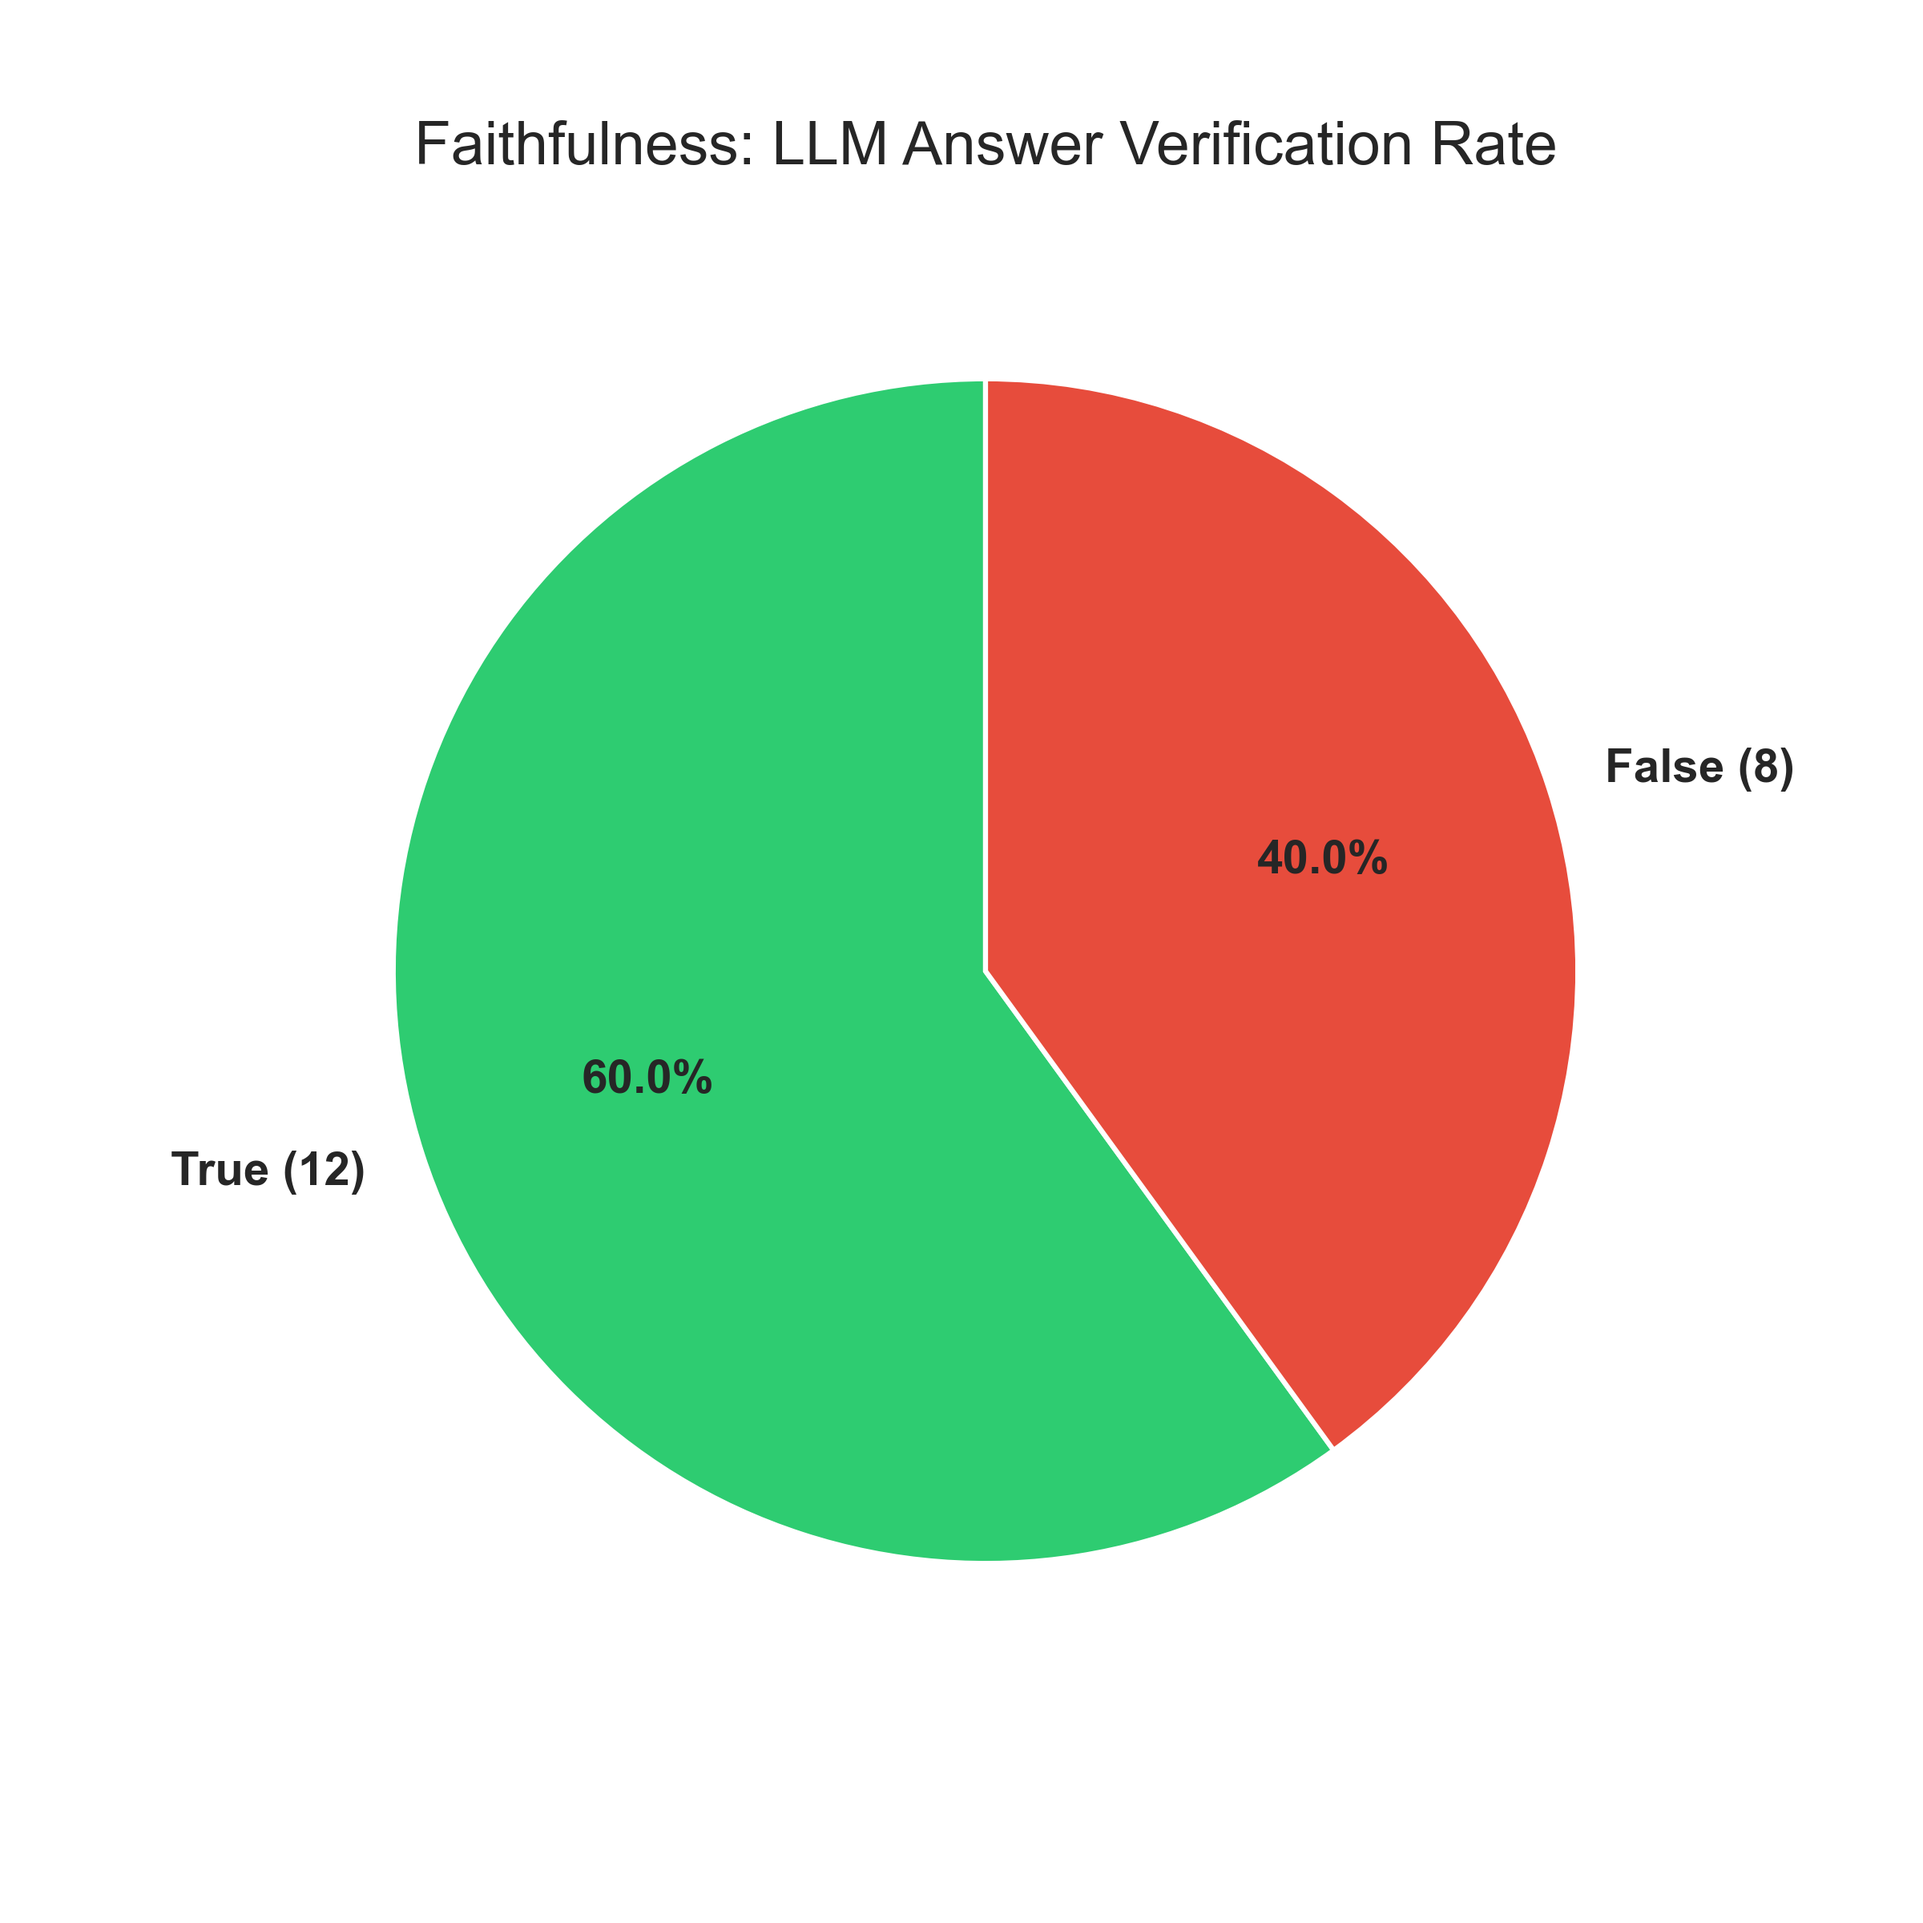
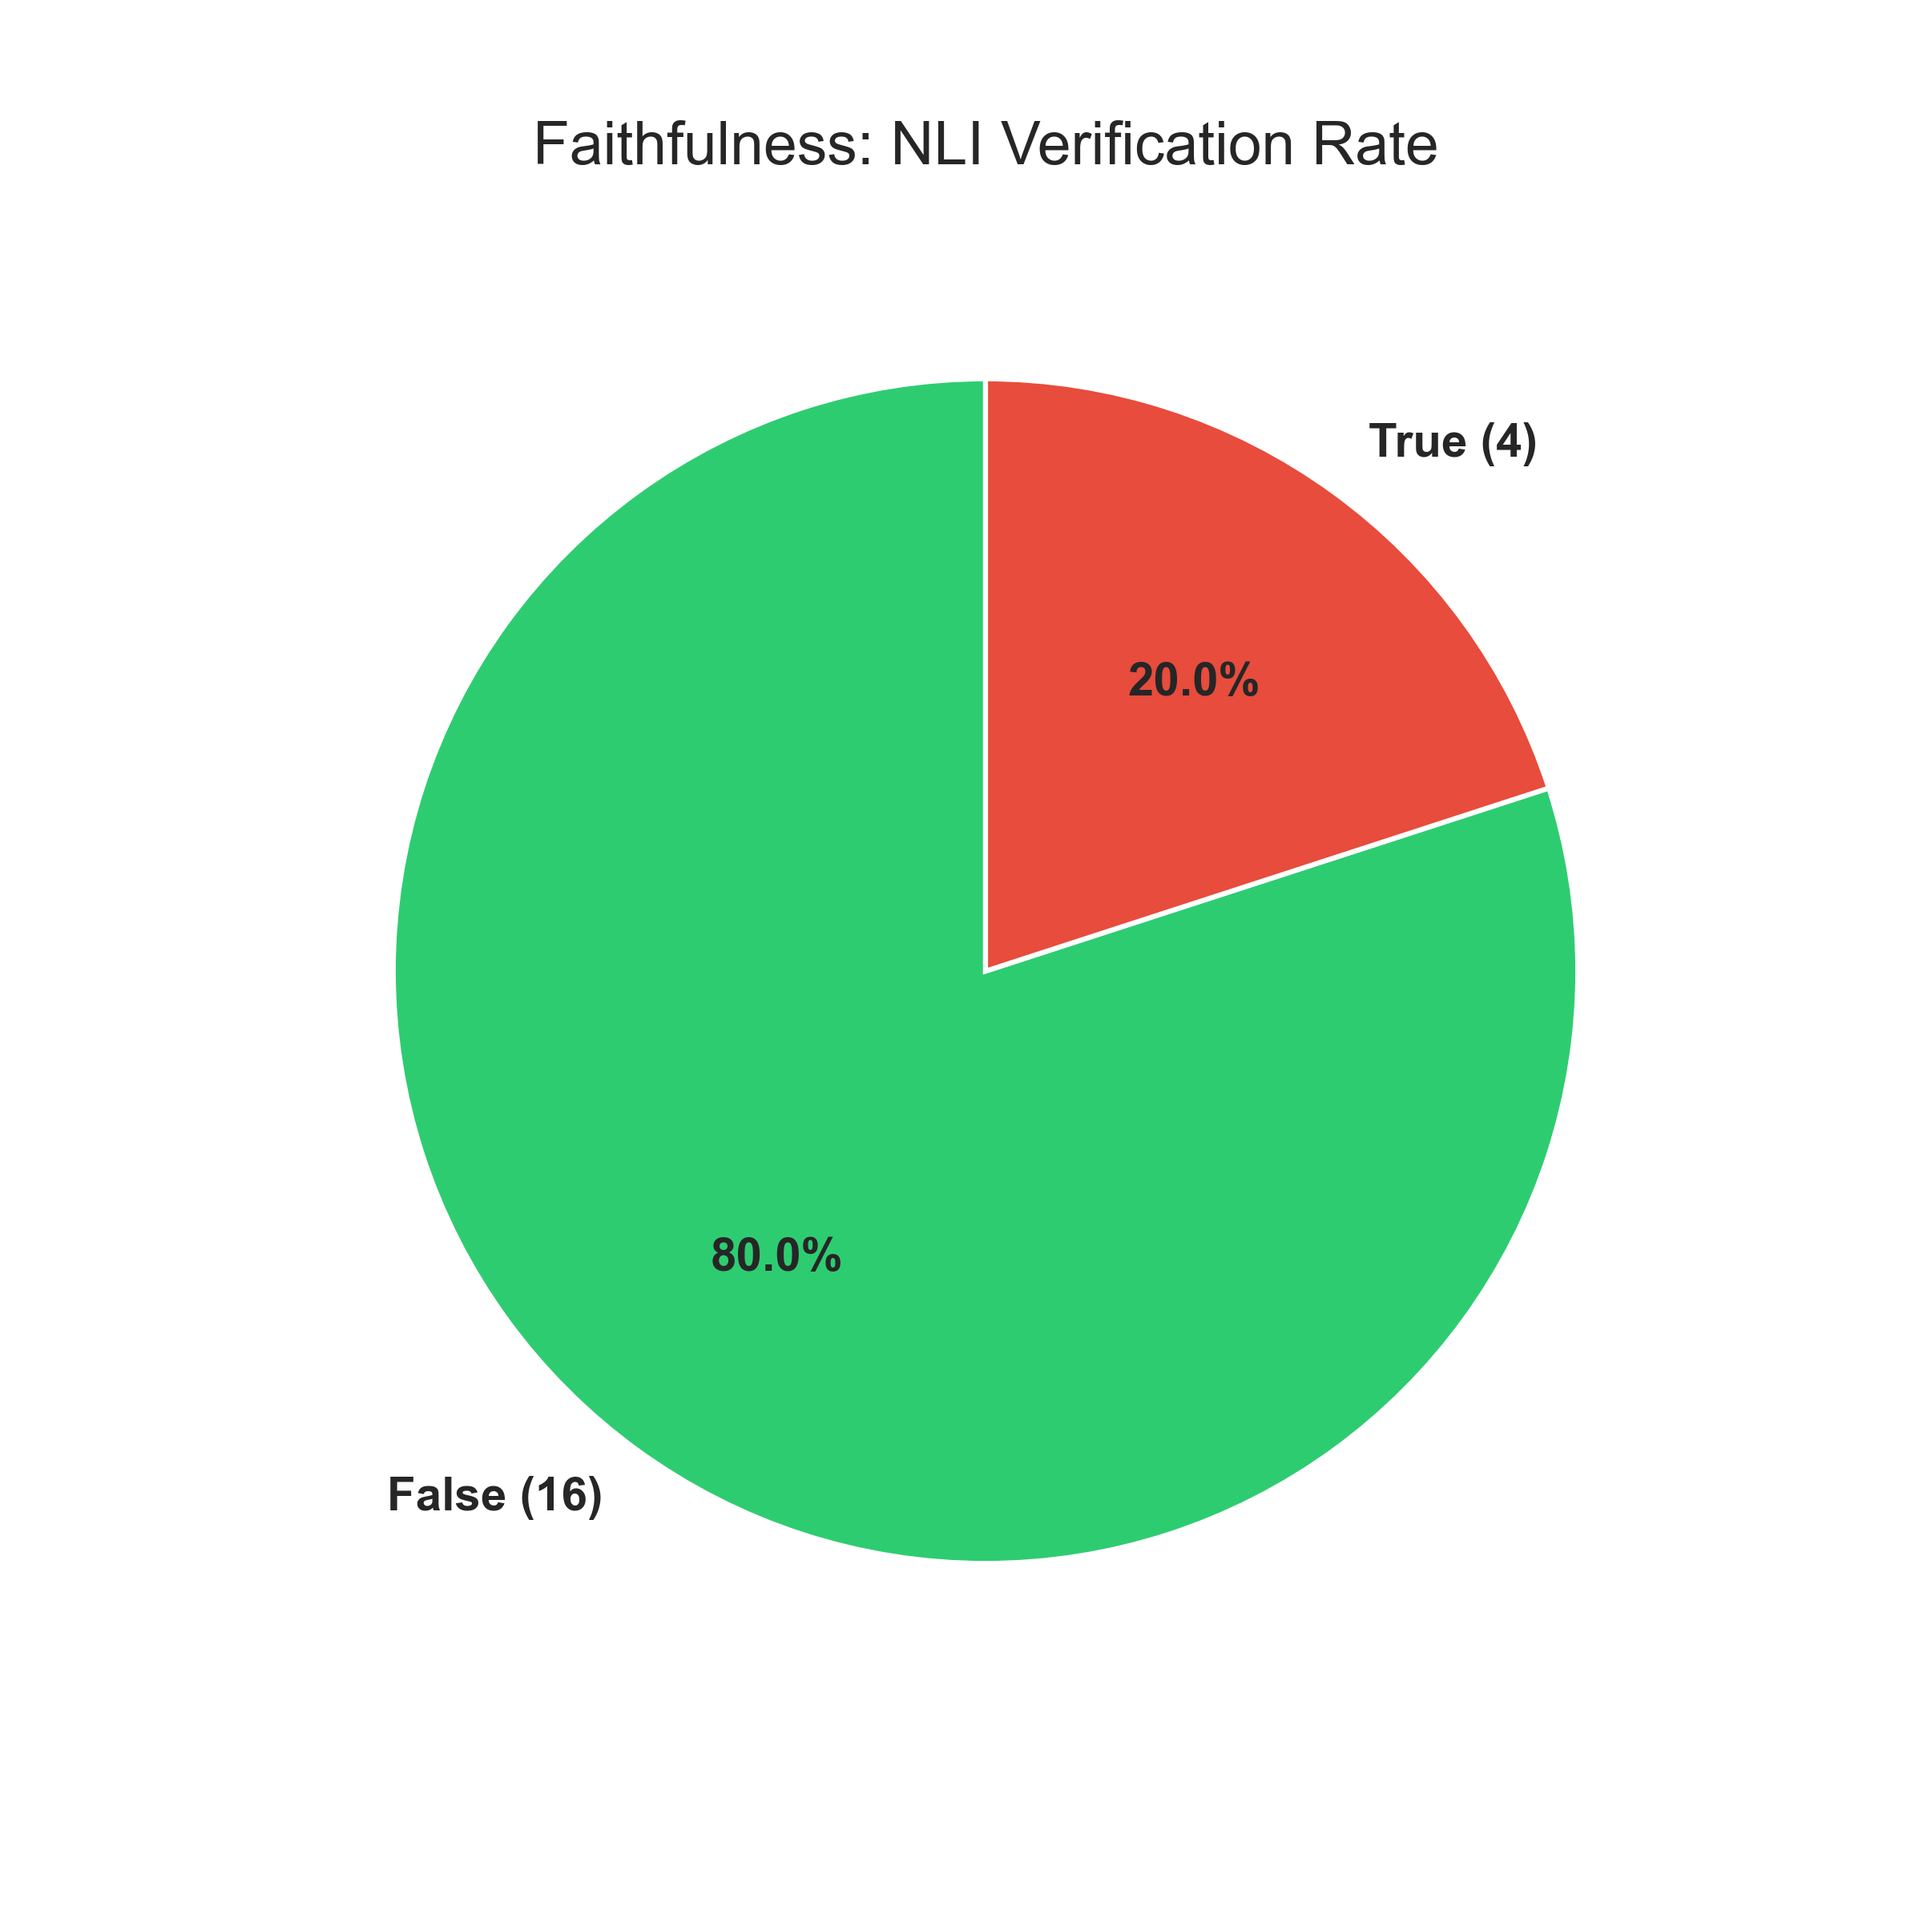
using NLI verification in evaluation

diff --git a/rag/evaluate.py b/rag/evaluate.py
@@ -236,7 +236,7 @@ def generate_graphs(df: pd.DataFrame, non_rejected: pd.DataFrame):
         startangle=90,
         textprops={"fontsize": 14, "weight": "bold"},
     )
-    plt.title("Faithfulness: LLM Answer Verification Rate", pad=20)
+    plt.title("Faithfulness: NLI Verification Rate", pad=20)
     plt.savefig(os.path.join(GRAPHS_DIR, "2_verification_rate.png"), dpi=300)
     plt.close()
 
